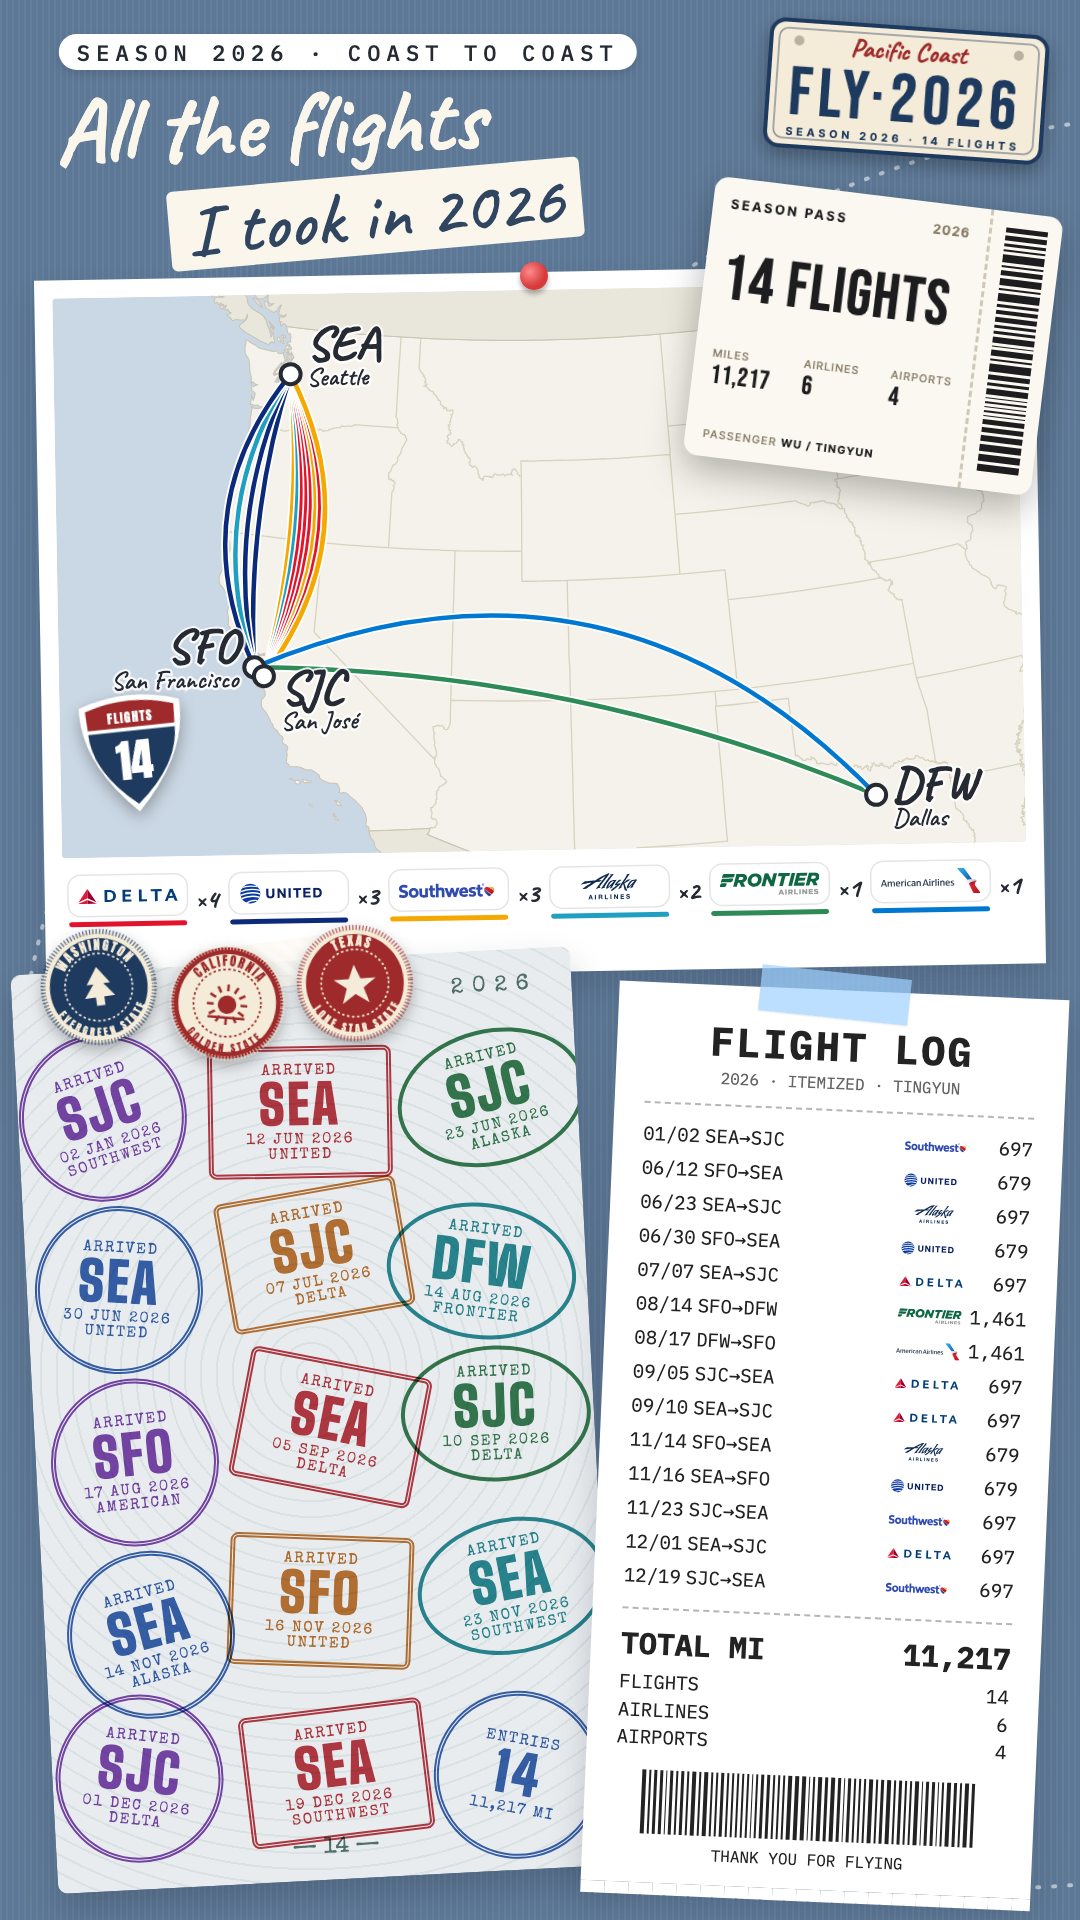
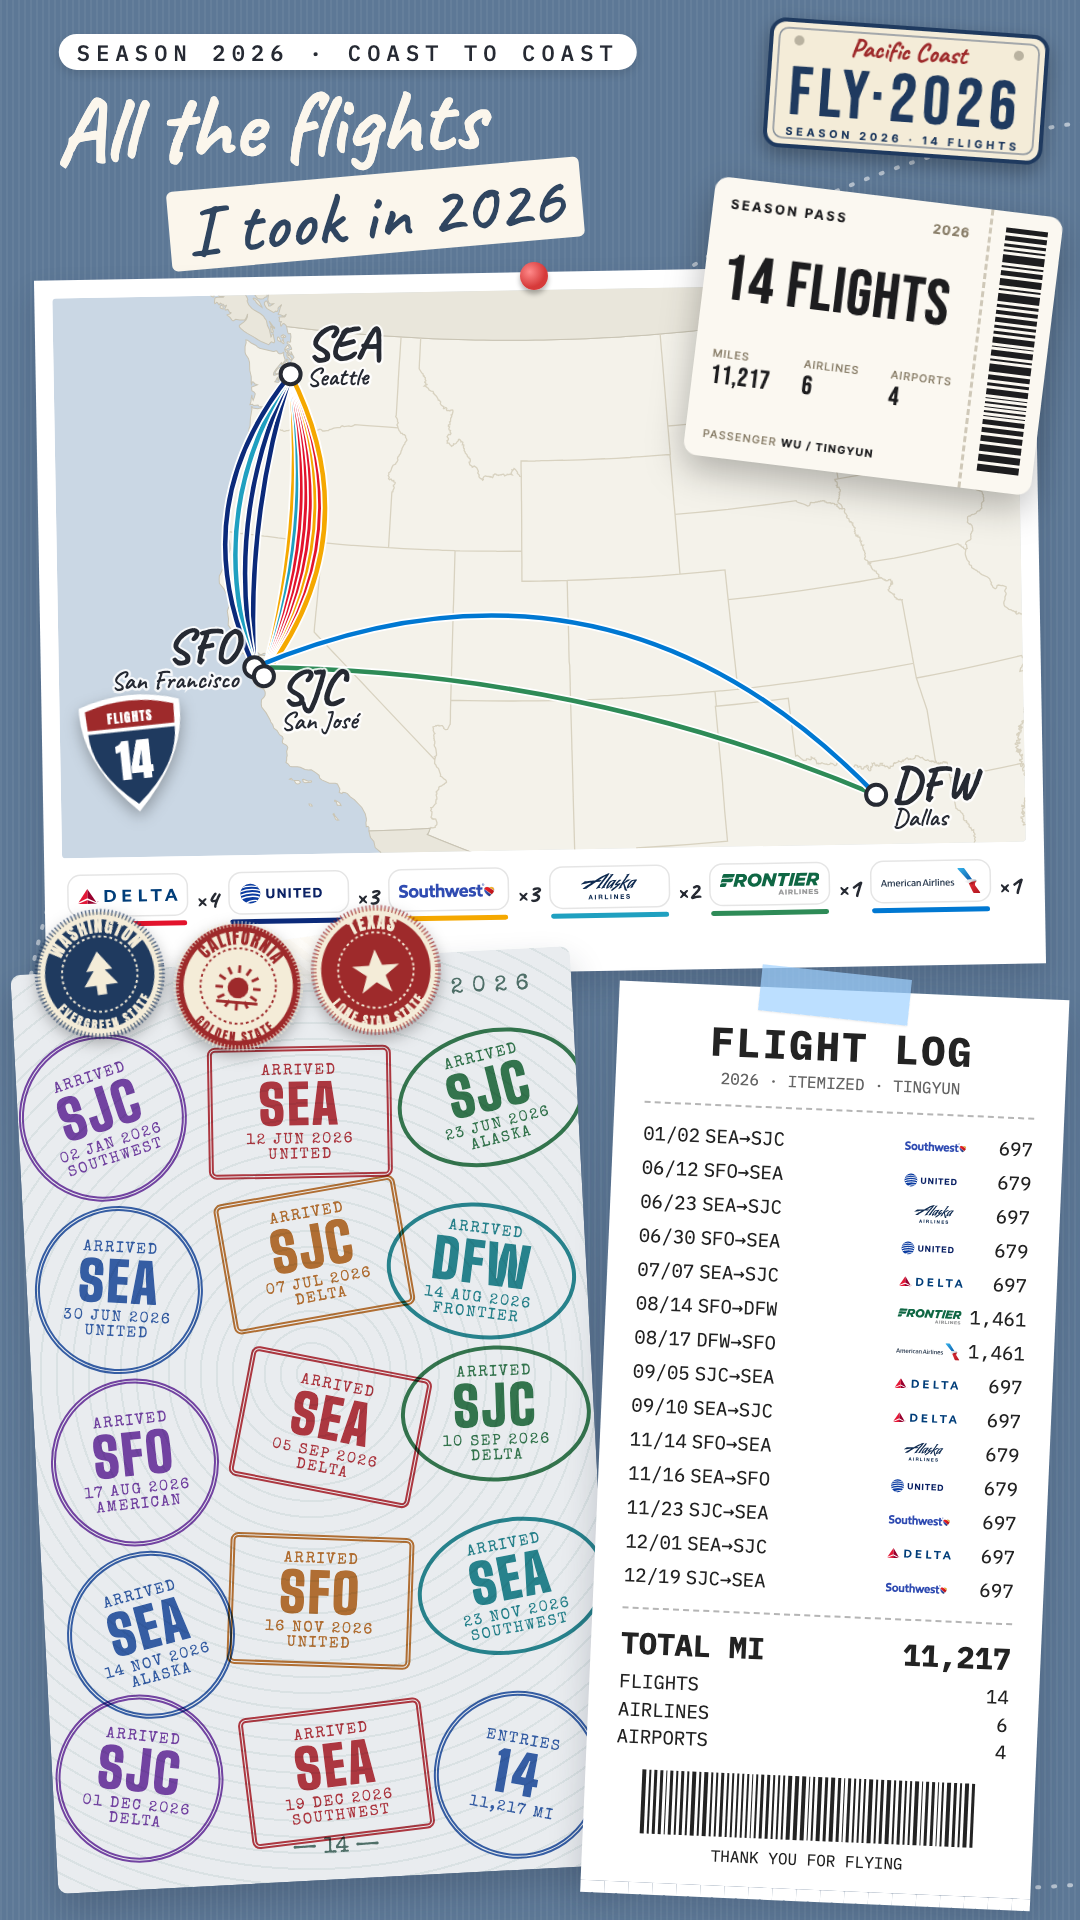
Make state patch lettering legible on the Americana versions

Changed region(s): [[0.0306, 0.4688, 0.4278, 0.5625]]

diff --git a/pictures/cinema.html b/pictures/cinema.html
@@ -283,8 +283,8 @@ if (FX.has("u")) {
     <defs><path id="${id}t" d="M26 70 A44 44 0 0 1 114 70"/><path id="${id}b" d="M22 70 A48 48 0 0 0 118 70"/></defs>
     <circle cx="70" cy="70" r="66" fill="${ink}"/><circle cx="70" cy="70" r="66" fill="none" stroke="${fill}" stroke-width="6" stroke-dasharray="1.5 2.5" opacity=".7"/>
     <circle cx="70" cy="70" r="58" fill="${fill}"/><circle cx="70" cy="70" r="40" fill="none" stroke="${ink}" stroke-width="2" stroke-dasharray="3 3"/>
-    <text font-family="Anton" font-size="15" letter-spacing="2" fill="${ink}"><textPath href="#${id}t" startOffset="50%" text-anchor="middle">${top}</textPath></text>
-    <text font-family="Anton" font-size="12" letter-spacing="2" fill="${ink}" dy="11"><textPath href="#${id}b" startOffset="50%" text-anchor="middle">${bot}</textPath></text>
+    <text font-family="Anton" font-size="18" letter-spacing="1" fill="${ink}"><textPath href="#${id}t" startOffset="50%" text-anchor="middle">${top}</textPath></text>
+    <text font-family="Anton" font-size="13" letter-spacing="1" fill="${ink}" dy="12"><textPath href="#${id}b" startOffset="50%" text-anchor="middle">${bot}</textPath></text>
     <g transform="translate(70 72)">${icon(ink)}</g></svg>`;
   const tree = c => `<path d="M0 -26 L14 -6 H6 L18 10 H5 V20 H-5 V10 H-18 L-6 -6 H-14 Z" fill="${c}"/>`;
   const sun = c => `<circle r="11" fill="${c}"/>${Array.from({length: 12}, (_, k) => `<rect x="-1.5" y="-24" width="3" height="8" fill="${c}" transform="rotate(${k * 30})"/>`).join("")}<rect x="-22" y="14" width="44" height="3" fill="${c}"/>`;
@@ -301,9 +301,9 @@ if (FX.has("u")) {
       <svg viewBox="0 0 120 130" style="width:100%"><path d="M8 14 Q60 -4 112 14 Q116 70 60 126 Q4 70 8 14 Z" fill="#fff"/><path d="M14 18 Q60 3 106 18 L105 38 H15 Z" fill="${RED}"/><path d="M15 42 H105 Q104 82 60 118 Q16 82 15 42 Z" fill="${NAVY}"/>
         <text x="60" y="33" text-anchor="middle" font-family="Anton" font-size="13" letter-spacing="1.5" fill="#fff">FLIGHTS</text>
         <text x="60" y="92" text-anchor="middle" font-family="Anton" font-size="46" fill="#fff">14</text></svg></div>
-    <div style="position:absolute;top:928px;left:40px;width:118px;transform:rotate(-8deg);z-index:9">${patch("wa", NAVY, CREAM, "WASHINGTON", "EVERGREEN STATE", tree)}</div>
-    <div style="position:absolute;top:944px;left:168px;width:118px;transform:rotate(5deg);z-index:9">${patch("ca", CREAM, RED, "CALIFORNIA", "GOLDEN STATE", sun)}</div>
-    <div style="position:absolute;top:924px;left:296px;width:118px;transform:rotate(-4deg);z-index:9">${patch("tx", RED, CREAM, "TEXAS", "LONE STAR STATE", star)}</div>`);
+    <div style="position:absolute;top:908px;left:34px;width:132px;transform:rotate(-8deg);z-index:9">${patch("wa", NAVY, CREAM, "WASHINGTON", "EVERGREEN STATE", tree)}</div>
+    <div style="position:absolute;top:920px;left:172px;width:132px;transform:rotate(5deg);z-index:9">${patch("ca", CREAM, RED, "CALIFORNIA", "GOLDEN STATE", sun)}</div>
+    <div style="position:absolute;top:904px;left:310px;width:132px;transform:rotate(-4deg);z-index:9">${patch("tx", RED, CREAM, "TEXAS", "LONE STAR STATE", star)}</div>`);
   // the plate takes the top-right corner, so the season-pass ticket moves down a little
   const tk = [...document.querySelectorAll("#pg > div")].find(d => /SEASON PASS/.test(d.textContent) && d.style.top === "150px");
   if (tk) { tk.style.top = "196px"; tk.style.left = "700px"; }

diff --git a/README.md b/README.md
@@ -4,6 +4,7 @@ My 2026 flights, pulled from airline and Chase Travel confirmation emails.
 
 - `story.html` — tap-through story (like Instagram Stories): animated routes, airline badges, year-in-numbers finale. Tap right/left to move, hold to pause.
 - `pictures/` — three Instagram Story pictures (1080×1920): scrapbook, minimal, boarding-pass stack
+- `pictures/americana/` — look #7 with Americana: "FLY·2026" license plate, interstate shield, Washington/California/Texas state patches (`pictures/cinema.html#c7-ctu` etc.)
 - `pictures/bold/` — look #7 with bolder options: night map, season-pass ticket, contrail (`pictures/cinema.html#c7-nct` etc.)
 - `pictures/simple/` — the same 20 looks, simplified to the essentials (title, map + logos, one note, passport, receipt)
 - `pictures/cinema/` — the collage in 20 restrained TV-series and superhero-blockbuster looks (`pictures/cinema.html#c1`…`#c20`)
